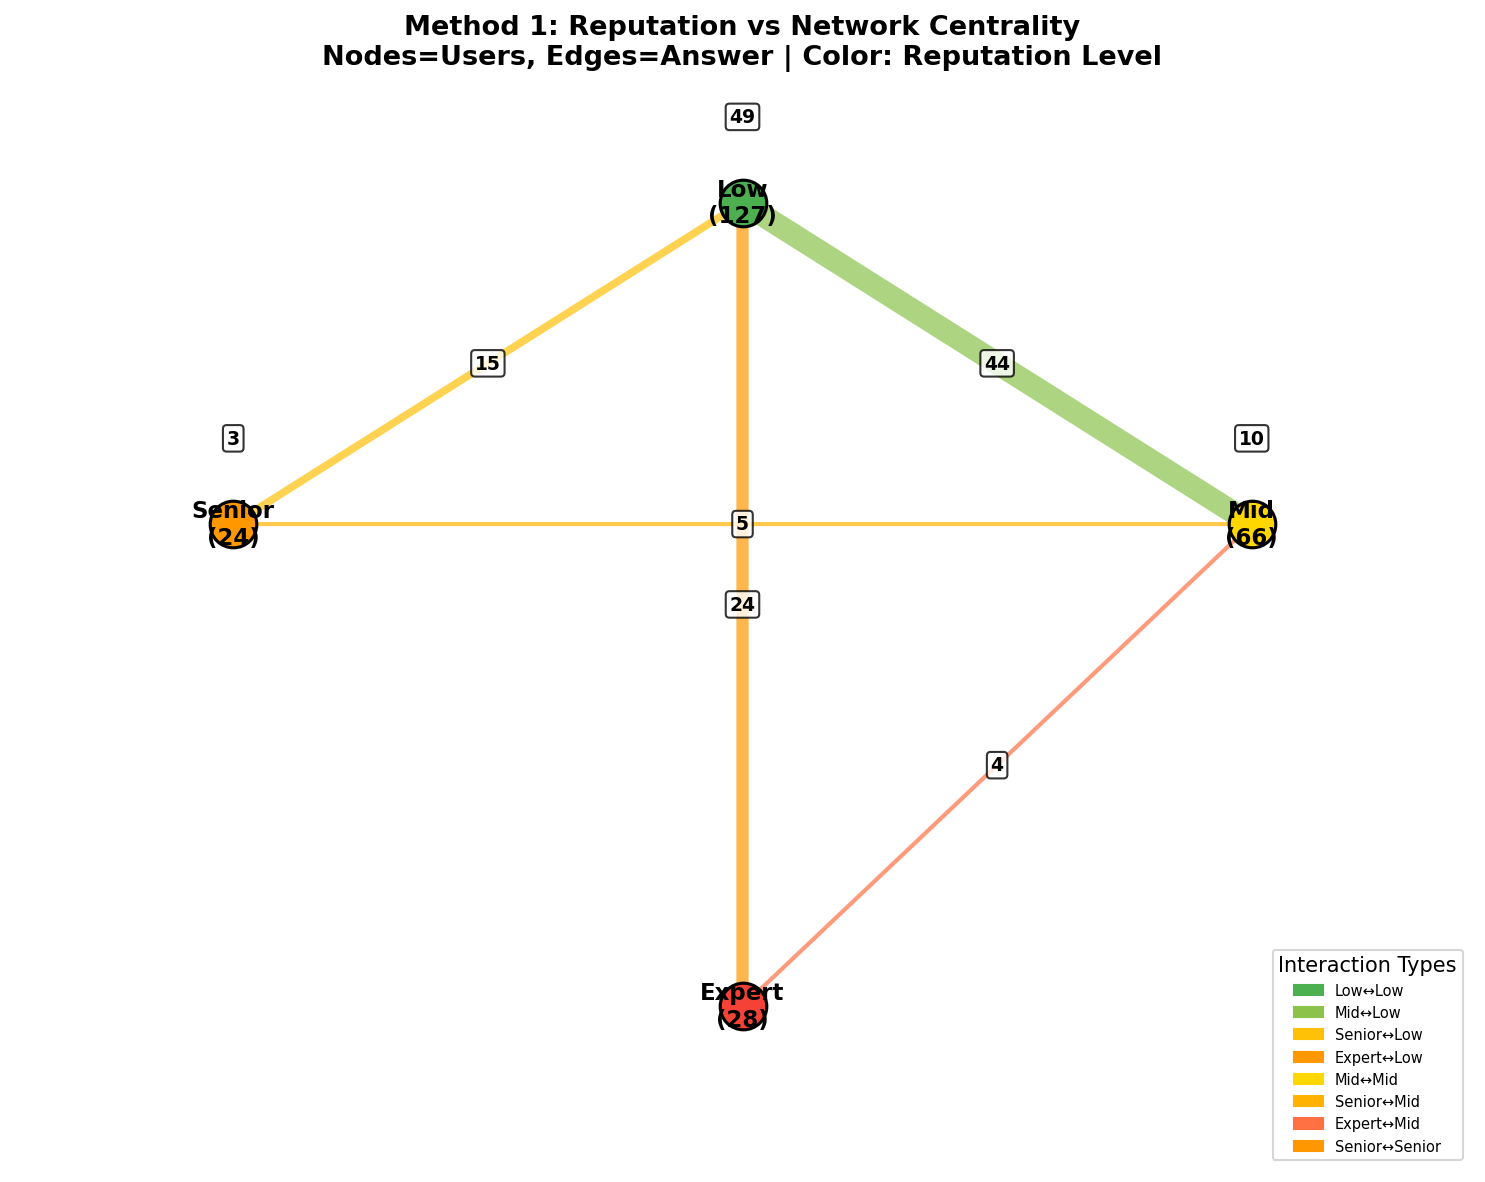
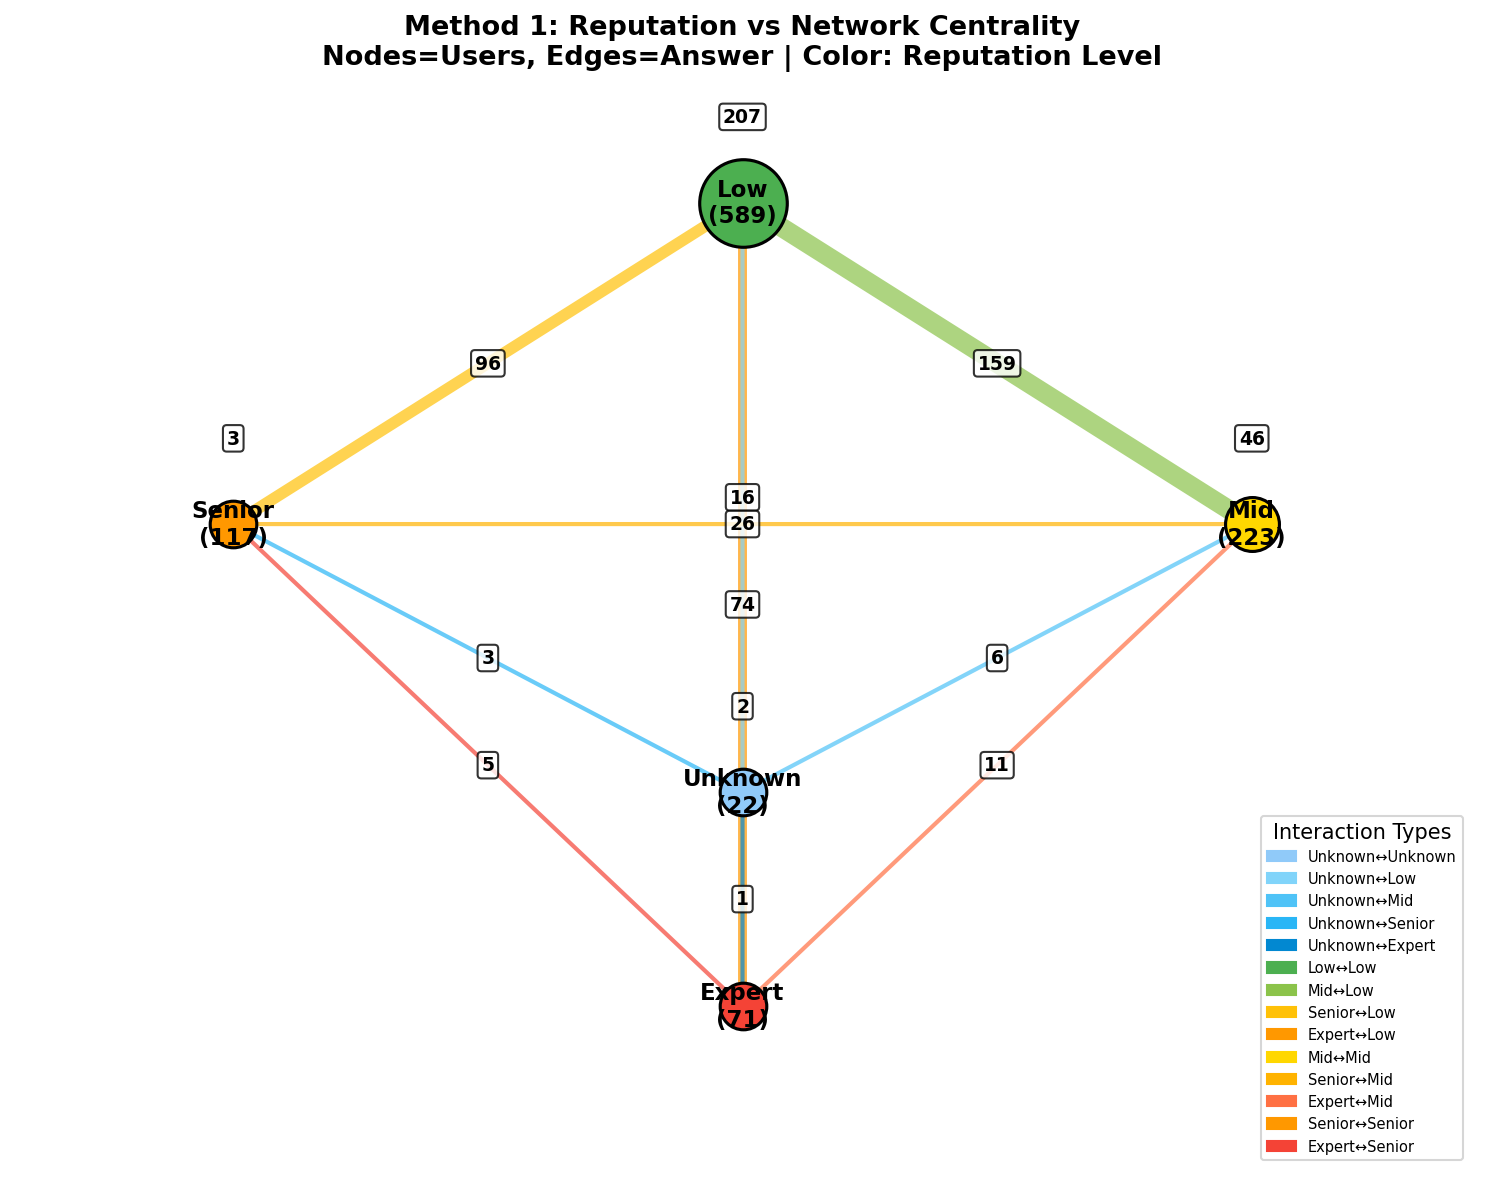
[fix] 圖 1

diff --git a/src/sna_runner.py b/src/sna_runner.py
@@ -684,34 +684,43 @@ class SNARunner:
         import matplotlib.patches as mpatches
 
         node_positions = {
+            "0_None": (0.5, 0.35),
             "1_Low": (0.5, 0.9),
             "2_Medium": (0.85, 0.6),
             "3_Senior": (0.15, 0.6),
             "4_Expert": (0.5, 0.15),
         }
         node_colors = {
+            "0_None": "#90CAF9",
             "1_Low": "#4CAF50",
             "2_Medium": "#FFD700",
             "3_Senior": "#FF9800",
             "4_Expert": "#F44336",
         }
         node_labels = {
+            "0_None": "Unknown",
             "1_Low": "Low",
             "2_Medium": "Mid",
             "3_Senior": "Senior",
             "4_Expert": "Expert",
         }
 
-        rep_counts = {"1_Low": 0, "2_Medium": 0, "3_Senior": 0, "4_Expert": 0}
+        rep_counts = {
+            "0_None": 0,
+            "1_Low": 0,
+            "2_Medium": 0,
+            "3_Senior": 0,
+            "4_Expert": 0,
+        }
         node_rep_map = {}
         for i, v in enumerate(graph.vs):
             rep_level = (
                 v["reputation_level"]
                 if "reputation_level" in v.attributes()
-                else "1_Low"
+                else "0_None"
             )
             if rep_level not in rep_counts:
-                rep_level = "1_Low"
+                rep_level = "0_None"
             rep_counts[rep_level] += 1
             node_rep_map[i] = rep_level
 
@@ -751,6 +760,11 @@ class SNARunner:
             )
 
         pair_color_map = {
+            ("0_None", "0_None"): "#90CAF9",
+            ("0_None", "1_Low"): "#81D4FA",
+            ("0_None", "2_Medium"): "#4FC3F7",
+            ("0_None", "3_Senior"): "#29B6F6",
+            ("0_None", "4_Expert"): "#0288D1",
             ("1_Low", "1_Low"): "#4CAF50",
             ("1_Low", "2_Medium"): "#8BC34A",
             ("1_Low", "3_Senior"): "#FFC107",
@@ -764,6 +778,11 @@ class SNARunner:
         }
 
         pair_label_map = {
+            ("0_None", "0_None"): "Unknown↔Unknown",
+            ("0_None", "1_Low"): "Unknown↔Low",
+            ("0_None", "2_Medium"): "Unknown↔Mid",
+            ("0_None", "3_Senior"): "Unknown↔Senior",
+            ("0_None", "4_Expert"): "Unknown↔Expert",
             ("1_Low", "1_Low"): "Low↔Low",
             ("1_Low", "2_Medium"): "Mid↔Low",
             ("1_Low", "3_Senior"): "Senior↔Low",
